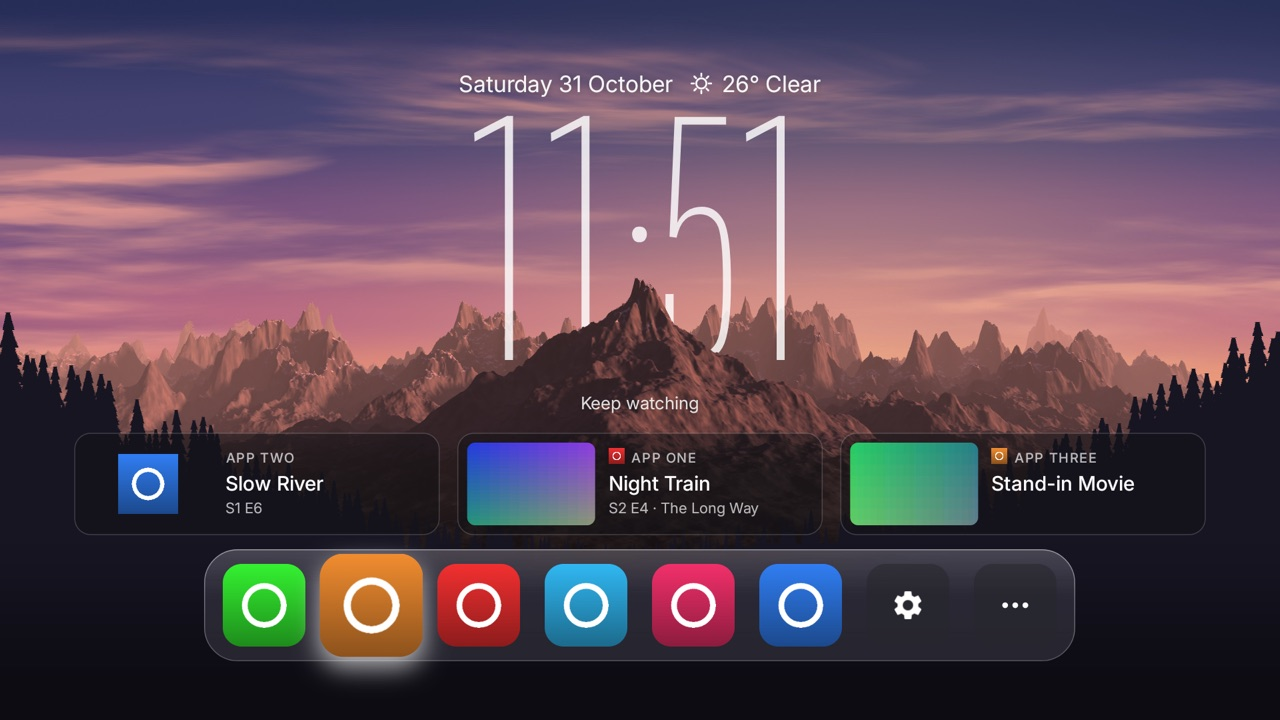
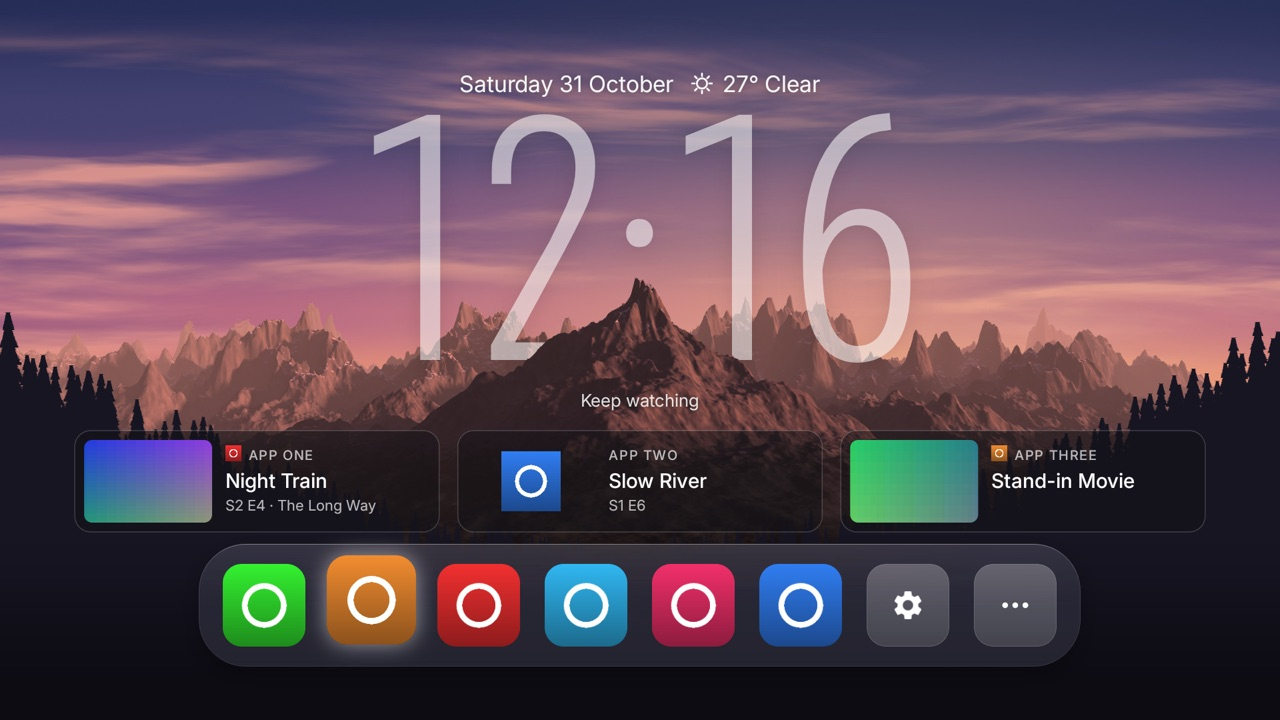
Launcher: big_clock_opacity (digits 30 to 100% solid) and dock_transparency (the tint is the rest, and clearer glass lets the sharp wallpaper through the blur); the panel's edge softer, its shadow outside it, a cool tint; docs pictures redone

diff --git a/launcher/app/src/main/java/com/gathin/tvhome/DockGlass.java b/launcher/app/src/main/java/com/gathin/tvhome/DockGlass.java
@@ -10,6 +10,8 @@ import android.graphics.ColorSpace;
 import android.graphics.LinearGradient;
 import android.graphics.Matrix;
 import android.graphics.Paint;
+import android.graphics.PorterDuff;
+import android.graphics.PorterDuffXfermode;
 import android.graphics.Rect;
 import android.graphics.RectF;
 import android.graphics.Shader;
@@ -38,23 +40,24 @@ final class DockGlass {
     /** The panel's corners, as a share of the room above the icons on top of the icons' own. */
     private static final float CORNER = 1.4f;
     /** The edge's strength part-way down and at the bottom, as shares of its top. */
-    private static final float EDGE_MIDDLE = 0.38f, EDGE_BOTTOM = 0.30f;
+    private static final float EDGE_MIDDLE = 0.34f, EDGE_BOTTOM = 0.24f;
     private static final String TAG = "TvHome.DockGlass";
 
     private final ViewGroup scene;
     private final ImageView view;
     private final File strip;
-    private final int intensity;
+    private final int intensity, transparency;
     private final float density;
     private final int screenW, screenH;
     private final ExecutorService baker = Executors.newSingleThreadExecutor();
     private final Rect placed = new Rect();
 
     /** Puts the empty panel under the dock in `frame`; `scene` is the full-screen view the strip lines up with. */
-    DockGlass(Context context, ViewGroup frame, ViewGroup scene, File strip, int intensity) {
+    DockGlass(Context context, ViewGroup frame, ViewGroup scene, File strip, int intensity, int transparency) {
         this.scene = scene;
         this.strip = strip;
         this.intensity = intensity;
+        this.transparency = transparency;
         DisplayMetrics metrics = context.getResources().getDisplayMetrics();
         density = metrics.density;
         screenW = metrics.widthPixels;
@@ -71,19 +74,27 @@ final class DockGlass {
         return centered ? Math.max(side, (width - icons) / 2) : side;
     }
 
-    /** The tint's alpha: light even at its strongest, so the wallpaper's colour stays clear. */
-    static int tintAlpha(int intensity) {
-        return Math.round(255 * (0.01f + 0.05f * intensity / 100f));
+    /** A cool grey: on a dark foreground white would read as milk, not as glass. */
+    private static final int TINT = 0xB4BCCC;
+
+    /** The blur's alpha: the clearer the glass, the more of the sharp wallpaper shows through it (a third at 100). */
+    static int blurAlpha(int transparency) {
+        return Math.round(255 * (1f - 0.35f * Math.max(0, transparency - 50) / 50f));
+    }
+
+    /** The tint's alpha: dock_transparency is how clear the glass is, so the tint is the rest. */
+    static int tintAlpha(int transparency) {
+        return Math.round(255 * (100 - transparency) / 100f);
     }
 
     /** The edge's alpha along the top of the panel; it falls to EDGE_BOTTOM of this at the bottom. */
     static int edgeAlpha(int intensity) {
-        return Math.round(255 * (0.35f + 0.50f * intensity / 100f));
+        return Math.round(255 * (0.18f + 0.30f * intensity / 100f));
     }
 
     /** The highlight's alpha at the very top. */
     static int highlightAlpha(int intensity) {
-        return Math.round(255 * (0.02f + 0.08f * intensity / 100f));
+        return Math.round(255 * (0.01f + 0.05f * intensity / 100f));
     }
 
     /** The shadow's alpha. */
@@ -143,17 +154,21 @@ final class DockGlass {
             under.offset(0, SHADOW_DROP_DP * density);
             canvas.drawRoundRect(under, radius, radius, paint);
             paint.setMaskFilter(null);
+            // The shadow stays outside: the panel is see-through, and it would darken what shows through.
+            paint.setXfermode(new PorterDuffXfermode(PorterDuff.Mode.CLEAR));
+            canvas.drawRoundRect(rect, radius, radius, paint);
+            paint.setXfermode(null);
             float scale = (float) screenW / in.getWidth();
             BitmapShader shader = new BitmapShader(in, Shader.TileMode.CLAMP, Shader.TileMode.CLAMP);
             Matrix matrix = new Matrix();
             matrix.setScale(scale, scale);
             matrix.postTranslate(-left, screenH - in.getHeight() * scale - top);
             shader.setLocalMatrix(matrix);
-            paint.setColor(0xFFFFFFFF);
+            paint.setColor(blurAlpha(transparency) << 24 | 0xFFFFFF);
             paint.setShader(shader);
             canvas.drawRoundRect(rect, radius, radius, paint);
             paint.setShader(null);
-            paint.setColor(tintAlpha(intensity) << 24 | 0xFFFFFF);
+            paint.setColor(tintAlpha(transparency) << 24 | TINT);
             canvas.drawRoundRect(rect, radius, radius, paint);
             paint.setColor(0xFFFFFFFF);
             paint.setShader(new LinearGradient(0, rect.top, 0, rect.top + rect.height() * 0.42f, highlightAlpha(intensity) << 24 | 0xFFFFFF, 0x00FFFFFF, Shader.TileMode.CLAMP));

diff --git a/launcher/app/src/main/java/com/gathin/tvhome/Config.java b/launcher/app/src/main/java/com/gathin/tvhome/Config.java
@@ -285,6 +285,8 @@ final class Config {
     final int bigClockSize;
     /** big_clock_top: where the digits start, in percent of the screen's height. */
     final int bigClockTop;
+    /** big_clock_opacity: how solid the digits are, in percent. */
+    final int bigClockOpacity;
     /** keep_watching: the row of Android TV's Watch Next above the dock, and the words above it. */
     final boolean keepWatching;
     final String keepWatchingHeading;
@@ -298,6 +300,8 @@ final class Config {
     /** glass_intensity (0 is off) and glass_strip, the blurred picture for the panel behind the icon_dock. */
     final int glassIntensity;
     final File glassStrip;
+    /** dock_transparency: how clear the glass is, in percent; the tint's opacity is the rest. */
+    final int dockTransparency;
     /** top_buttons: false hides the buttons at the top right. */
     final boolean topButtons;
 
@@ -325,7 +329,7 @@ final class Config {
                    boolean moodPosters, boolean moodWatched, String moodPostersHeading, boolean moodSurpriseReel,
                    Map<String, File> scene, boolean bigClock, int bigClockSize, boolean keepWatching, String keepWatchingHeading,
                    boolean iconDock, int iconDockSize, Map<String, File> dockIcons, int bigClockTop, boolean dockCentered,
-                   int glassIntensity, File glassStrip, boolean topButtons) {
+                   int glassIntensity, File glassStrip, boolean topButtons, int bigClockOpacity, int dockTransparency) {
         this.scene = Collections.unmodifiableMap(scene);
         this.bigClock = bigClock;
         this.bigClockSize = bigClockSize;
@@ -335,6 +339,8 @@ final class Config {
         this.iconDockSize = iconDockSize;
         this.dockIcons = Collections.unmodifiableMap(dockIcons);
         this.bigClockTop = bigClockTop;
+        this.bigClockOpacity = bigClockOpacity;
+        this.dockTransparency = dockTransparency;
         this.dockCentered = dockCentered;
         this.glassIntensity = glassStrip == null ? 0 : glassIntensity;
         this.glassStrip = glassStrip;
@@ -588,6 +594,8 @@ final class Config {
         boolean bigClock = res.getBoolean(R.bool.big_clock);
         int bigClockSize = res.getInteger(R.integer.big_clock_size);
         int bigClockTop = res.getInteger(R.integer.big_clock_top);
+        int bigClockOpacity = res.getInteger(R.integer.big_clock_opacity);
+        int dockTransparency = res.getInteger(R.integer.dock_transparency);
         boolean keepWatching = res.getBoolean(R.bool.keep_watching);
         String keepWatchingHeading = res.getString(R.string.keep_watching_heading);
         boolean iconDock = res.getBoolean(R.bool.icon_dock);
@@ -718,6 +726,8 @@ final class Config {
             bigClock = bool(json, "big_clock", bigClock);
             bigClockSize = integer(json, "big_clock_size", bigClockSize, 15, 50);
             bigClockTop = integer(json, "big_clock_top", bigClockTop, 5, 40);
+            bigClockOpacity = integer(json, "big_clock_opacity", bigClockOpacity, 30, 100);
+            dockTransparency = integer(json, "dock_transparency", dockTransparency, 0, 100);
             keepWatching = bool(json, "keep_watching", keepWatching);
             keepWatchingHeading = string(json, "keep_watching_heading", keepWatchingHeading);
             iconDock = bool(json, "icon_dock", iconDock);
@@ -803,7 +813,8 @@ final class Config {
                 moodPosters, moodWatched, moodPostersHeading, moodSurpriseReel,
                 themeFiles(dir, packageMap(scene)), bigClock, clamp(bigClockSize, 15, 50), keepWatching, keepWatchingHeading,
                 iconDock, clamp(iconDockSize, 40, 100), themeFiles(dir, packageMap(dockIcons)), clamp(bigClockTop, 5, 40),
-                "center".equals(dockAlign), clamp(glassIntensity, 0, 100), iconDock ? themeFile(dir, glassStrip) : null, topButtons);
+                "center".equals(dockAlign), clamp(glassIntensity, 0, 100), iconDock ? themeFile(dir, glassStrip) : null, topButtons,
+                clamp(bigClockOpacity, 30, 100), clamp(dockTransparency, 0, 100));
     }
 
     /** The deck as read from a theme: its titles, and its moods pointing at them by position. */

diff --git a/launcher/app/src/main/java/com/gathin/tvhome/BigClock.java b/launcher/app/src/main/java/com/gathin/tvhome/BigClock.java
@@ -21,8 +21,8 @@ final class BigClock {
     private static final float LINE_ABOVE = 0.063f;
     /** The digits of res/font/clock_digits.ttf are this share of its text size. */
     private static final float DIGIT_SHARE = 0.765f;
-    /** The digits let a little of the sky through, as glass would, over a very soft shadow for the bright sky. */
-    private static final int DIGITS_COLOR = 0xCCFFFFFF, LINE_COLOR = 0xF2FFFFFF, SHADOW = 0x59000000, DIGITS_SHADOW = 0x38000000;
+    /** A very soft, very light shadow under the digits, for the bright sky. */
+    private static final int LINE_COLOR = 0xF2FFFFFF, SHADOW = 0x59000000, DIGITS_SHADOW = 0x1C000000;
     /** The shadow's size in dp. */
     private static final float DIGITS_SHADOW_DP = 14;
 
@@ -31,7 +31,7 @@ final class BigClock {
     private final WeatherIcon icon = new WeatherIcon();
     private final TextView weatherText;
 
-    BigClock(Context context, int sizePercent, int topPercent, Typeface regular, Typeface digitsFont) {
+    BigClock(Context context, int sizePercent, int topPercent, int opacityPercent, Typeface regular, Typeface digitsFont) {
         float density = context.getResources().getDisplayMetrics().density;
         int screenH = context.getResources().getDisplayMetrics().heightPixels;
         view = new FrameLayout(context);
@@ -43,7 +43,7 @@ final class BigClock {
         digits.setFormat12Hour("h:mm");
         digits.setFormat24Hour("HH:mm");
         digits.setTypeface(digitsFont);
-        digits.setTextColor(DIGITS_COLOR);
+        digits.setTextColor(Math.round(255 * opacityPercent / 100f) << 24 | 0xFFFFFF);
         digits.setIncludeFontPadding(false);
         digits.setShadowLayer(DIGITS_SHADOW_DP * density, 0, density, DIGITS_SHADOW);
         // Room for the shadow at the sides, and one texture: it is blurred when the minute changes, not on every frame.

diff --git a/launcher/app/src/main/java/com/gathin/tvhome/MainActivity.java b/launcher/app/src/main/java/com/gathin/tvhome/MainActivity.java
@@ -499,7 +499,7 @@ public class MainActivity extends Activity implements AppAdapter.TileListener {
         wallpaperPlayer = new WallpaperPlayer(this, root, cfg);
         sky = findViewById(R.id.sky);
         sky.setIntensity(cfg.skyIntensity);
-        if (cfg.bigClock) bigClock = new BigClock(this, cfg.bigClockSize, cfg.bigClockTop, UiFont.get(this, R.string.font_inter_regular), UiFont.get(this, R.string.font_clock));
+        if (cfg.bigClock) bigClock = new BigClock(this, cfg.bigClockSize, cfg.bigClockTop, cfg.bigClockOpacity, UiFont.get(this, R.string.font_inter_regular), UiFont.get(this, R.string.font_clock));
         if (!cfg.scene.isEmpty()) {
             scene = new SceneLayers(this, root, root.indexOfChild(sky), bigClock == null ? null : bigClock.view, cfg.scene);
         } else if (bigClock != null) {
@@ -686,7 +686,7 @@ public class MainActivity extends Activity implements AppAdapter.TileListener {
             int start = DockGlass.rowStart(width, pitch * COLUMNS - (pitch - icon), side, cfg.dockCentered);
             grid.setPadding(start, grid.getPaddingTop(), Math.max(0, width - start - pitch * COLUMNS), grid.getPaddingBottom());
             if (cfg.glassIntensity > 0) {
-                dockGlass = new DockGlass(this, (ViewGroup) grid.getParent(), root, cfg.glassStrip, cfg.glassIntensity);
+                dockGlass = new DockGlass(this, (ViewGroup) grid.getParent(), root, cfg.glassStrip, cfg.glassIntensity, cfg.dockTransparency);
             }
             // The first icon grows and glows past the row's left edge.
             ((ViewGroup) grid.getParent()).setClipChildren(false);

diff --git a/launcher/app/src/test/java/com/gathin/tvhome/DockGlassTest.java b/launcher/app/src/test/java/com/gathin/tvhome/DockGlassTest.java
@@ -21,14 +21,21 @@ public class DockGlassTest {
     }
 
     @Test public void strongerGlassIsStrongerInEveryPart() {
-        assertTrue(DockGlass.tintAlpha(100) > DockGlass.tintAlpha(1));
         assertTrue(DockGlass.edgeAlpha(100) > DockGlass.edgeAlpha(1));
         assertTrue(DockGlass.highlightAlpha(100) > DockGlass.highlightAlpha(1));
         assertTrue(DockGlass.shadowAlpha(100) > DockGlass.shadowAlpha(1));
         assertTrue(DockGlass.edgeAlpha(100) <= 255);
     }
 
-    @Test public void theTintStaysLightSoTheGlassIsClear() {
-        assertTrue(DockGlass.tintAlpha(100) < 0.07f * 255);
+    @Test public void theTintIsWhatTheTransparencyLeaves() {
+        assertEquals(0, DockGlass.tintAlpha(100));
+        assertEquals(31, DockGlass.tintAlpha(88));
+        assertEquals(255, DockGlass.tintAlpha(0));
+    }
+
+    @Test public void clearerGlassLetsTheWallpaperThrough() {
+        assertEquals(255, DockGlass.blurAlpha(50));
+        assertEquals(166, DockGlass.blurAlpha(100));
+        assertTrue(DockGlass.blurAlpha(88) < DockGlass.blurAlpha(60));
     }
 }

diff --git a/themes/README.md b/themes/README.md
@@ -149,13 +149,15 @@ A new key needs one there in the same pull request.
 | `big_clock` | true/false | A big thin clock in the centre of the screen (off by default), between the `scene` layers so the front one overlaps the digits, under one line: the date, then the weather icon, temperature and condition (`weather_city`). The small clock at the top left goes |
 | `big_clock_size` | number | The digits' height as a share of the screen's height, 15 to 50 (34 by default) |
 | `big_clock_top` | number | Where the digits start as a share of the screen's height, 5 to 40 (16 by default); the date and weather line stays just above them. Lower digits go further behind the `scene`'s front layer |
+| `big_clock_opacity` | number | How solid the digits are in percent, 30 to 100 (80 by default); under 100 the sky shows through them |
 | `keep_watching` | true/false | Keep watching (off by default): a row above the dock of what Android TV's Watch Next lists (see [docs/watch-next.md](../docs/watch-next.md)), newest first: each card has the app's name, the title, the episode and the app's picture when it gave one. OK opens the item in its app; Up from the dock goes to the row, and on to the top-right icons. The row is hidden when nothing is listed. Needs `READ_TV_LISTINGS`, which `launcher/build-and-install.sh` grants |
 | `keep_watching_heading` | text | The line above the row (`"Keep watching"` by default) |
 | `icon_dock` | true/false | The dock as icons (off by default): each dock app's own icon in a rounded square, the sharpest it ships, or its banner when the icon is too small; then Settings and "..." for More apps, on one left-aligned row. `columns` still says how many apps; the rest are in More apps. Focus grows the icon by `focus_grow` with a soft white glow and no box (use with `plain_focus`). No names, no reordering on the TV |
 | `icon_dock_size` | number | The icons' size in dp, 40 to 100 (62 by default) |
 | `dock_icons` | object | Package to your own PNG for `icon_dock`, such as `{"com.netflix.ninja": "icons/netflix.png"}`, instead of the app's icon |
 | `dock_align` | text | Where the `icon_dock` sits: `left` (default) or `center`. The Keep watching row follows: its heading moves to the middle, and fewer cards than fill the row are centred |
-| `glass_intensity` | number | A glass panel behind the `icon_dock`, 0 to 100 (0, none, by default), with `glass_strip`: a light tint, a crisp 1 px edge (bright on top, fainter at the bottom), a highlight along the top and a soft shadow under it, stronger as it rises. The launcher never blurs |
+| `glass_intensity` | number | A glass panel behind the `icon_dock`, 0 to 100 (0, none, by default), with `glass_strip`: a crisp 1 px edge (bright on top, fainter at the bottom), a highlight along the top and a soft shadow around it, stronger as it rises. The launcher never blurs |
+| `dock_transparency` | number | How clear that glass is in percent, 0 to 100 (88 by default): the tint's opacity is the rest, and from 50 up a little more of the sharp wallpaper shows through the blur |
 | `glass_strip` | text | A picture in the theme's folder for `glass_intensity`: the wallpaper's bottom, blurred on a computer, as wide as the screen and resting on its bottom edge. TV Studio makes it as `scene/glass.jpg` |
 | `top_buttons` | true/false | The buttons at the top right (on by default). Off, none show, and Up from the row under them does nothing |
 | `cinematic_home` | bool | Cinematic top shelf: the focused dock app's artwork, softened, fills the top of the screen in its colour, with a larger name, "Last opened" (apps opened from Home), dock position dots, a focus glow in the app's colour and a translucent dock band; off by default |

diff --git a/docs/switches.md b/docs/switches.md
@@ -72,6 +72,7 @@ the rules. Keys from before this rule are on its wanted list; a screenshot for o
 | `big_clock` | <img src="switches/keep_watching.jpg" width="320" alt="big_clock on the preview emulator (stand-in icons and titles): a drawn mountain scene with a big thin clock behind the front peak, the date and weather above it"> |
 | `big_clock_size` | <img src="switches/keep_watching.jpg" width="320" alt="big_clock_size on the preview emulator (stand-in icons and titles): a drawn mountain scene with a big thin clock behind the front peak, the date and weather above it"> |
 | `big_clock_top` | <img src="switches/glass_intensity.jpg" width="320" alt="big_clock_top on the preview emulator (stand-in icons and titles): a tall thin clock with the drawn peak in front of the bottom third of its digits"> |
+| `big_clock_opacity` | <img src="switches/glass_intensity.jpg" width="320" alt="big_clock_opacity on the preview emulator (stand-in icons and titles): the digits of a big clock with the colour of the drawn sky showing through them"> |
 | `keep_watching` | <img src="switches/keep_watching.jpg" width="320" alt="keep_watching on the preview emulator (stand-in icons and titles): a Keep watching row above the dock, with three cards showing the app, the title and the episode; the first card is focused"> |
 | `keep_watching_heading` | <img src="switches/keep_watching.jpg" width="320" alt="keep_watching_heading on the preview emulator (stand-in icons and titles): a Keep watching row above the dock, with three cards showing the app, the title and the episode; the first card is focused"> |
 | `icon_dock` | <img src="switches/icon_dock.jpg" width="320" alt="icon_dock on the preview emulator (stand-in icons and titles): a dock of rounded app icons, then Settings and three dots, with the focused icon larger and softly glowing"> |
@@ -80,4 +81,5 @@ the rules. Keys from before this rule are on its wanted list; a screenshot for o
 | `dock_align` | <img src="switches/dock_align.jpg" width="320" alt="dock_align on the preview emulator (stand-in icons and titles): the dock in the middle of the screen, with the Keep watching heading centred over the cards"> |
 | `glass_intensity` | <img src="switches/glass_intensity.jpg" width="320" alt="glass_intensity on the preview emulator (stand-in icons and titles): a rounded glass panel behind the dock, with a blurred copy of the drawn wallpaper, a thin bright edge and a highlight along the top"> |
 | `glass_strip` | <img src="switches/glass_intensity.jpg" width="320" alt="glass_strip on the preview emulator (stand-in icons and titles): the blurred strip of the wallpaper seen through the glass panel behind the dock"> |
+| `dock_transparency` | <img src="switches/glass_intensity.jpg" width="320" alt="dock_transparency on the preview emulator (stand-in icons and titles): a clear glass panel behind the dock with the drawn wallpaper showing through it"> |
 | `top_buttons` | <img src="switches/glass_intensity.jpg" width="320" alt="top_buttons on the preview emulator (stand-in icons and titles): no buttons at the top right of Home"> |
